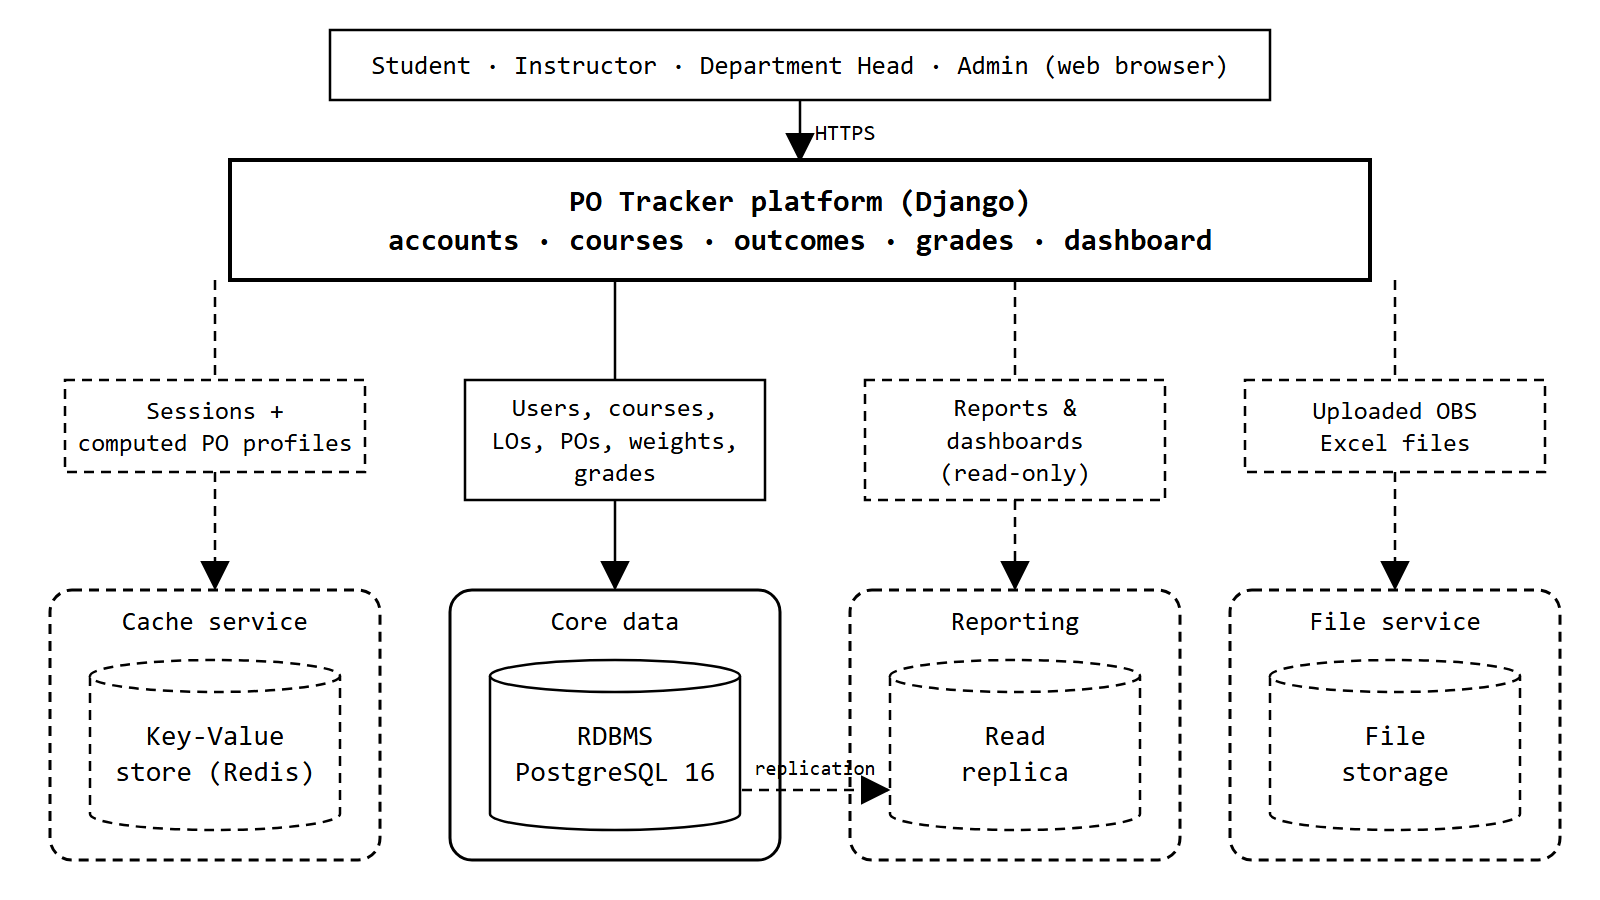
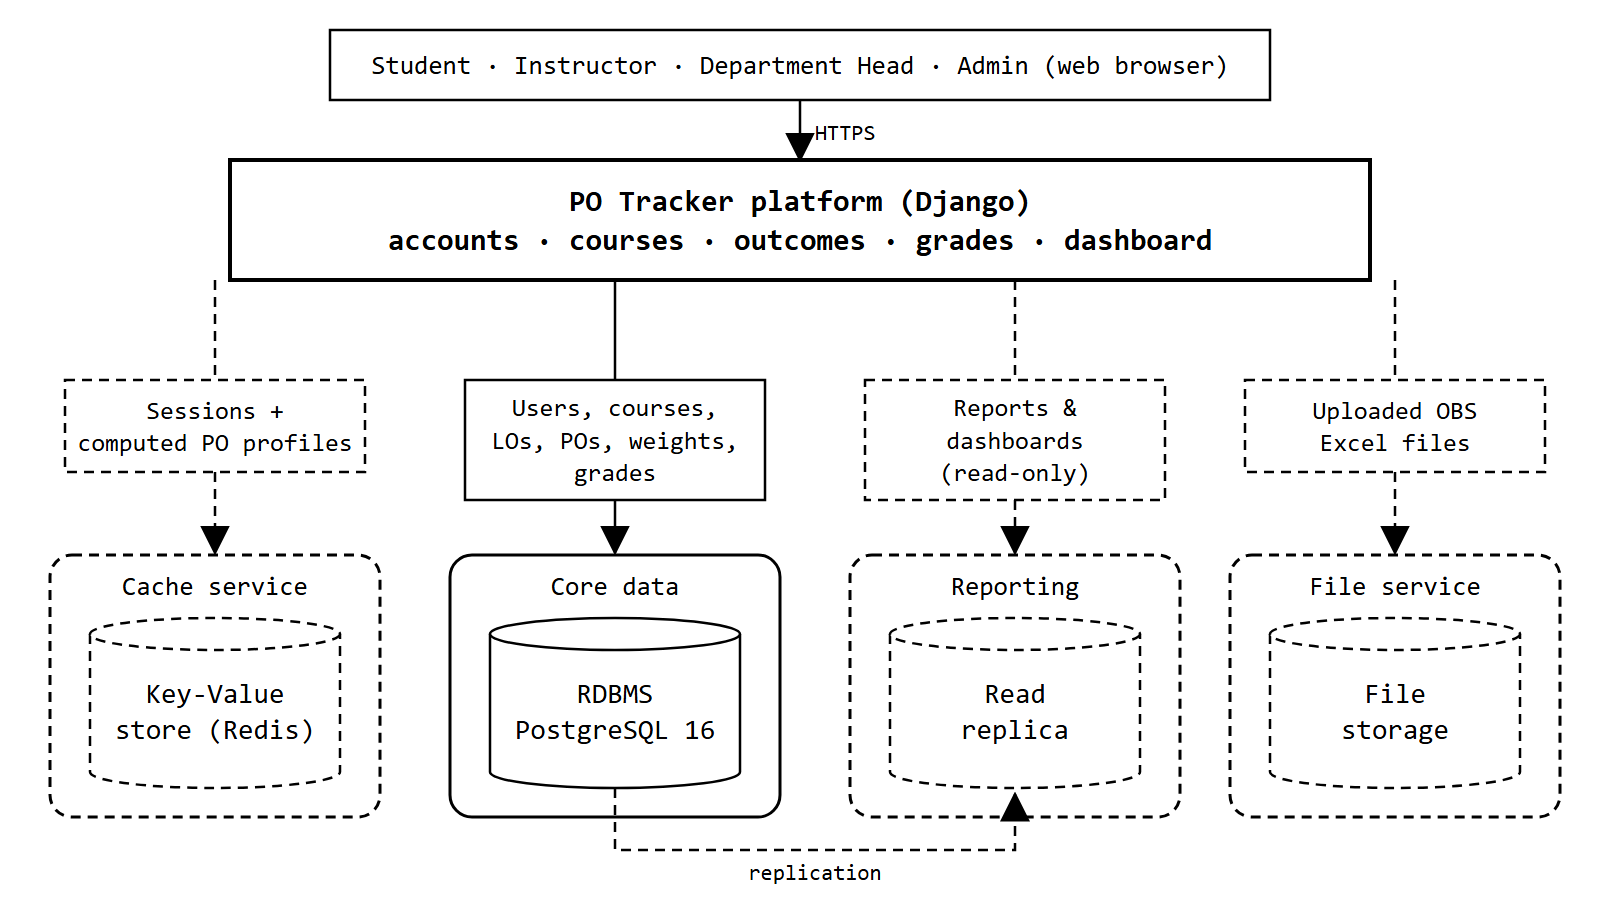
docs: cleaner tooling diagram and readable replication label

diff --git a/docs/diagrams/presentation/generate.js b/docs/diagrams/presentation/generate.js
@@ -62,16 +62,15 @@ const line = (x1, y1, x2, y2, { dash = false, arrow = true, sw = 2.5 } = {}) =>
     b += line(c.cx, 280, c.cx, ly, { dash: c.dash, arrow: false });
     b += box(c.cx - lw / 2, ly, lw, lh, c.label, { size: 25, dash: c.dash });
     // service frame (rounded) + cylinder
-    b += `<rect x="${c.cx - 165}" y="590" width="330" height="270" rx="22" fill="#fff" stroke="#000" stroke-width="3"${c.dash ? ' stroke-dasharray="10 7"' : ''}/>`;
-    b += text(c.cx, 630, [c.svc], { size: 26 });
-    b += line(c.cx, ly + lh, c.cx, 588, { dash: c.dash });
-    b += cylinder(c.cx, 660, 250, 170, c.store, { dash: c.dash, size: 28 });
+    b += `<rect x="${c.cx - 165}" y="555" width="330" height="262" rx="22" fill="#fff" stroke="#000" stroke-width="3"${c.dash ? ' stroke-dasharray="10 7"' : ''}/>`;
+    b += text(c.cx, 595, [c.svc], { size: 26 });
+    b += line(c.cx, ly + lh, c.cx, 553, { dash: c.dash });
+    b += cylinder(c.cx, 618, 250, 170, c.store, { dash: c.dash, size: 28 });
   }
-  // replikasyon oku: PostgreSQL → read replica
-  b += `<path d="M742,790 L888,790" fill="none" stroke="#000" stroke-width="2.5" stroke-dasharray="10 7" marker-end="url(#ok)"/>`;
-  b += text(815, 775, ['replication'], { size: 20 });
-  b += `<line x1="1180" y1="40" x2="1240" y2="40" stroke="#000" stroke-width="2.5"/>`;
-  fs.writeFileSync(path.join(OUT, 'architecture.svg'), svg(b.replace(/<line x1="1180" y1="40"[^>]*\/>/, ''), MONO));
+  // replication: PostgreSQL -> read replica, routed below the service frames
+  b += `<path d="M615,788 L615,850 L1015,850 L1015,794" fill="none" stroke="#000" stroke-width="2.5" stroke-dasharray="10 7" marker-end="url(#ok)"/>`;
+  b += text(815, 880, ['replication'], { size: 22 });
+  fs.writeFileSync(path.join(OUT, 'architecture.svg'), svg(b, MONO));
 }
 
 /* ---------- 2) Simplified class diagram ---------- */
@@ -137,37 +136,49 @@ ${attrs.map((a, i) => text(x + 18, y + hh + 30 + i * ah, [a], { size: 24, anchor
 /* ---------- 3) Tooling and workflow (CSE 311) ---------- */
 {
   let b = '';
-  const BLUE = '#00A2FF', BLUE_D = '#00508C', ORANGE = '#F7B500', ORANGE_D = '#F08C00', GREEN = '#62D836', GREEN_D = '#0A7A0A', PINK = '#F185B9';
-  // GitHub + CI grey frame
-  b += `<rect x="300" y="40" width="1000" height="440" rx="40" fill="#D0D0D0" stroke="#888" stroke-width="4" stroke-dasharray="6 8"/>`;
-  b += text(330, 100, ['GitHub', 'does it all'], { size: 28, anchor: 'start', fill: '#fff', weight: 'bold' });
+  // calm palette, same structure as the CSE 311 slide (IDEs -> GitHub -> CI, shared channel)
+  const C = {
+    frame: '#F1F3F6', frameLine: '#B9C0CB', ink: '#1F2933', soft: '#52606D',
+    ciFill: '#E4F4EA', ciLine: '#2F855A', repoFill: '#FFF3DC', repoLine: '#C98A00',
+    devFill: '#E6F0FB', devLine: '#2B6CB0', testFill: '#FDE8E6', testLine: '#C0392B',
+    bandFill: '#FBEAF2', bandLine: '#C2578A', arrow: '#C98A00',
+  };
+  const rect = (x, y, w, h, fill, stroke, rx = 14, sw = 2.5, dash = '') =>
+    `<rect x="${x}" y="${y}" width="${w}" height="${h}" rx="${rx}" fill="${fill}" stroke="${stroke}" stroke-width="${sw}"${dash ? ` stroke-dasharray="${dash}"` : ''}/>`;
+  b += `<defs><marker id="okA" viewBox="0 0 12 12" refX="10" refY="6" markerWidth="7" markerHeight="7" orient="auto-start-reverse"><path d="M0,0 L12,6 L0,12 z" fill="${C.arrow}"/></marker>
+<marker id="okC" viewBox="0 0 12 12" refX="10" refY="6" markerWidth="7" markerHeight="7" orient="auto-start-reverse"><path d="M0,0 L12,6 L0,12 z" fill="${C.ciLine}"/></marker></defs>`;
+  // GitHub frame
+  b += rect(380, 24, 840, 340, C.frame, C.frameLine, 28, 2.5, '8 7');
+  b += text(408, 64, ['GitHub'], { size: 24, anchor: 'start', fill: C.soft, weight: 'bold' });
   // CI
-  b += `<rect x="540" y="60" width="520" height="140" rx="22" fill="${GREEN}" stroke="${GREEN_D}" stroke-width="4"/>`;
-  b += text(800, 105, ['GitHub Actions CI', 'every push & PR → PostgreSQL 16', 'Django checks + 143 tests ✓'], { size: 26, fill: '#fff', weight: 'bold' });
-  b += `<line x1="800" y1="290" x2="800" y2="208" stroke="${GREEN_D}" stroke-width="7" marker-end="url(#okG)"/>`;
-  // GitHub repo
-  b += `<rect x="520" y="290" width="560" height="160" fill="${ORANGE}" stroke="${ORANGE_D}" stroke-width="4"/>`;
-  b += text(800, 335, ['GitHub: olcekciozge/PO-Tracker'], { size: 28, weight: 'bold' });
-  b += text(800, 375, ['main + one branch per member', '7 Pull Requests merged, CI green'], { size: 25, fill: '#fff' });
-  // communication band
-  // four team members
+  b += rect(520, 50, 560, 104, C.ciFill, C.ciLine);
+  b += text(800, 92, ['GitHub Actions CI'], { size: 28, weight: 'bold', fill: C.ink });
+  b += text(800, 130, ['PostgreSQL 16 · Django checks · 143 tests'], { size: 23, fill: C.ink });
+  b += `<line x1="800" y1="216" x2="800" y2="160" stroke="${C.ciLine}" stroke-width="4" marker-end="url(#okC)"/>`;
+  b += text(816, 194, ['runs on every push & PR'], { size: 20, anchor: 'start', fill: C.soft });
+  // repository
+  b += rect(500, 220, 600, 118, C.repoFill, C.repoLine);
+  b += text(800, 266, ['Repository: olcekciozge/PO-Tracker'], { size: 28, weight: 'bold', fill: C.ink });
+  b += text(800, 306, ['main + one branch per member · 7 merged PRs'], { size: 23, fill: C.ink });
+  // members
   const devs = [['Rümeysa', 'data model'], ['Batuhan', 'architecture, CI'], ['Buğra', 'accounts, Scrum'], ['Özge', 'UI, dashboard']];
   devs.forEach(([n, r], i) => {
-    const x = 160 + i * 330, y = 660;
-    b += `<path d="M${x + 150},${y} C${x + 150},560 ${700 + i * 70},520 ${640 + i * 110},458" fill="none" stroke="${ORANGE}" stroke-width="6" marker-end="url(#okY)" marker-start="url(#okY)"/>`;
-    b += `<rect x="${x}" y="${y}" width="300" height="200" fill="${BLUE}" stroke="${BLUE_D}" stroke-width="4"/>`;
-    b += text(x + 18, y + 70, ['IDE #' + (i + 1), n], { size: 28, anchor: 'start', fill: '#fff', weight: 'bold' });
-    b += text(x + 18, y + 142, [r], { size: 23, anchor: 'start', fill: '#fff', weight: 'bold' });
-    b += `<circle cx="${x + 262}" cy="${y + 168}" r="26" fill="#EE2A17"/>`;
-    b += text(x + 262, y + 176, ['<>'], { size: 22, fill: '#fff', weight: 'bold' });
+    const x = 130 + i * 350, y = 530, cx = x + 150, tx = 590 + i * 140;
+    b += `<line x1="${cx}" y1="${y - 6}" x2="${tx}" y2="${344}" stroke="${C.arrow}" stroke-width="3.5" marker-start="url(#okA)" marker-end="url(#okA)"/>`;
+    b += rect(x, y, 300, 150, C.devFill, C.devLine);
+    b += text(x + 24, y + 52, [n], { size: 30, anchor: 'start', weight: 'bold', fill: C.ink });
+    b += text(x + 24, y + 90, [r], { size: 23, anchor: 'start', fill: C.soft });
+    b += rect(x + 24, y + 108, 150, 30, C.testFill, C.testLine, 15, 2);
+    b += text(x + 99, y + 130, ['local unit tests'], { size: 17, fill: C.testLine, weight: 'bold' });
+    b += `<line x1="${cx}" y1="${y + 150}" x2="${cx}" y2="${720}" stroke="${C.bandLine}" stroke-width="2.5"/>`;
   });
-  b += text(1380, 560, ['push · pull · PR'], { size: 26, weight: 'bold', anchor: 'end' });
-  
-  b += `<circle cx="70" cy="560" r="26" fill="#EE2A17"/>` + text(70, 569, ['<>'], { size: 22, fill: '#fff', weight: 'bold' });
-  b += text(105, 569, ['= unit tests'], { size: 24, anchor: 'start', weight: 'bold' });
-  // semi-transparent band drawn over the member boxes
-  b += `<rect x="150" y="625" width="1300" height="62" rx="12" fill="${PINK}" fill-opacity="0.55" stroke="#C2407E" stroke-width="3"/>`;
-  b += text(800, 667, ['WhatsApp group · Scrum backlog & sprints (Scrum master: Buğra)'], { size: 27, weight: 'bold' });
+  // label for the push/pull arrows
+  b += rect(690, 420, 220, 38, '#fff', '#fff', 8, 0);
+  b += text(800, 446, ['push · pull request'], { size: 22, weight: 'bold', fill: C.arrow });
+  // shared communication band
+  b += rect(130, 720, 1350, 64, C.bandFill, C.bandLine, 32);
+  b += text(805, 761, ['WhatsApp group  ·  task board with backlog & sprints'], { size: 25, weight: 'bold', fill: C.ink });
+  b += text(805, 840, ['Each member works in their own IDE on their own branch; code reaches main only through a pull request.'], { size: 21, fill: C.soft });
   fs.writeFileSync(path.join(OUT, 'tooling.svg'), svg(b, SANS));
 }
 console.log('ok');
